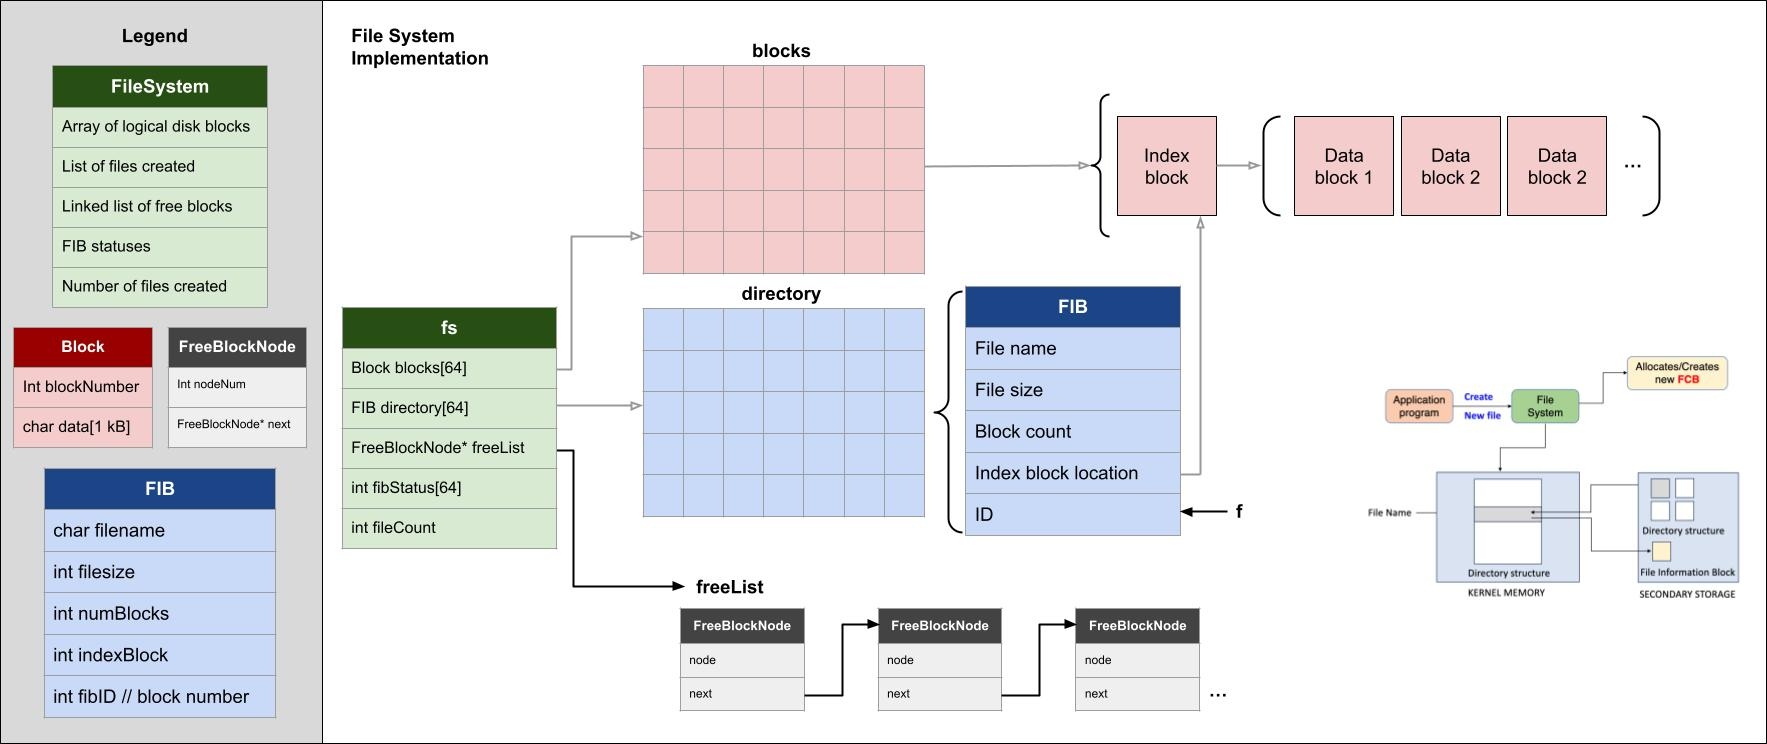
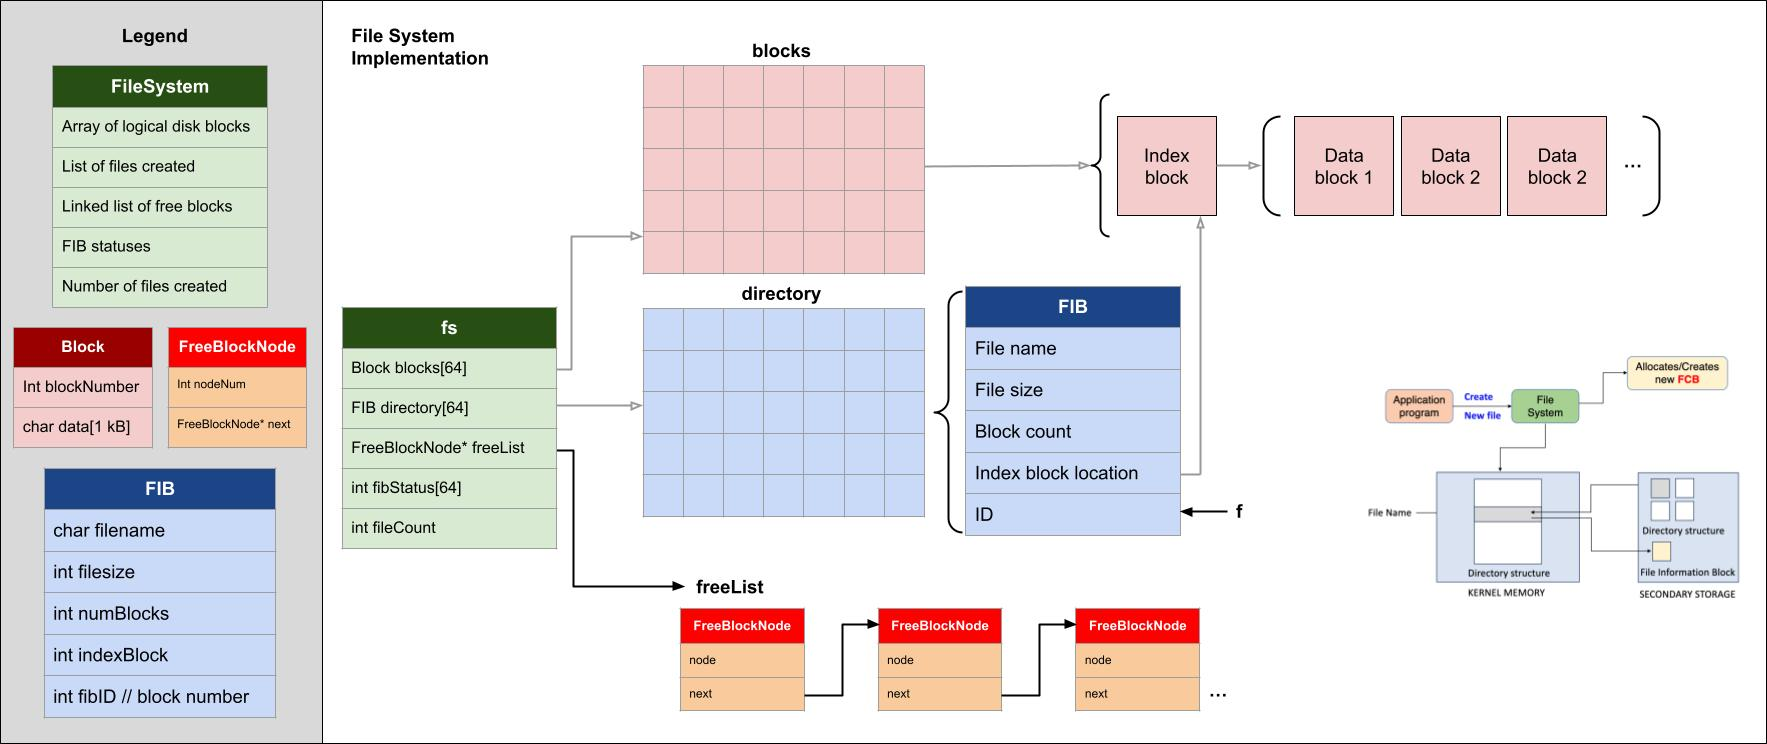
Updating README.md

Changed region(s): [[0.498, 0.8038, 0.6848, 0.9583], [0.0934, 0.4328, 0.1868, 0.6183], [0.3735, 0.8038, 0.4669, 0.9583]]

diff --git a/assignments/assignment4/README.md b/assignments/assignment4/README.md
@@ -1,19 +1,19 @@
-# <span style="color: lightgreen;">Indexed File System Simulator</span>
+# Indexed File System Simulator
 
-## <span style="color: lightgreen;">Overview</span>
+## Overview
 
 This project is a simulation of an **indexed file system implemented in C**.  
 It demonstrates how an operating system can manage files using **blocks, indexing, and free space management**.
 
 Each file is stored using:
-- <span style="color: lightcoral;">One index block (FIB)</span>
-- <span style="color: lightcoral;">Multiple data blocks</span>
-- <span style="color: lightcoral;">A free block linked list for allocation and deallocation</span>
+- One **index block (FIB)**
+- Multiple **data blocks**
+- A **free block linked list** for allocation and deallocation
 
 
-## <span style="color: lightgreen;">Specifications</span>
+## Specifications
 
-- Fixed-size block storage system  
+- Fixed-size block storage system 
 - Indexed file allocation (1 index block per file points to N data blocks)
 - File creation with block allocation
 - File deletion with block deallocation
@@ -21,13 +21,10 @@ Each file is stored using:
 - Free blocks managed dynamically using a linked list
 
 
-# <span style="color: lightgreen;">Core Components</span>
-
+# Core Components
 ![Diagram](file_system_diagram.jpg)
 
-
-### <span style="color: lightblue;">File Index Block (FIB)</span>
-
+### 🟦 File Index Block (FIB)
 Each file has a FIB that stores:
 - Filename
 - File size in bytes
@@ -36,23 +33,19 @@ Each file has a FIB that stores:
 - Unique FIB ID
 
 
-### <span style="color: lightblue;">Free Block List</span>
-
+### 🟥 Free Block List
 - Implemented as a **singly linked list**
 - Tracks all available blocks
 - Updated on allocation and deallocation
 
 
-### <span style="color: lightblue;">File System Structure</span>
-
+### 🟩 File System Structure
 - Directory of FIB entries, stored as an array
 - Free block head pointer
 - File count
 
 
-
 ## Build Instructions
-
 Compile the project using the provided Makefile:
 ** make **
 
